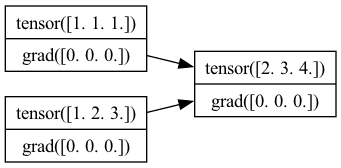
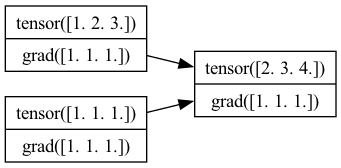
readme

diff --git a/main.py b/main.py
@@ -4,4 +4,5 @@ import graph
 a = Tensor([1,2,3])
 b = Tensor([1,1,1])
 c = a + b
-graph.draw_dot(c, format="png").render(filename="graph")
+c.backward()
+graph.draw_dot(c, format="png").render(filename="img/graph")
